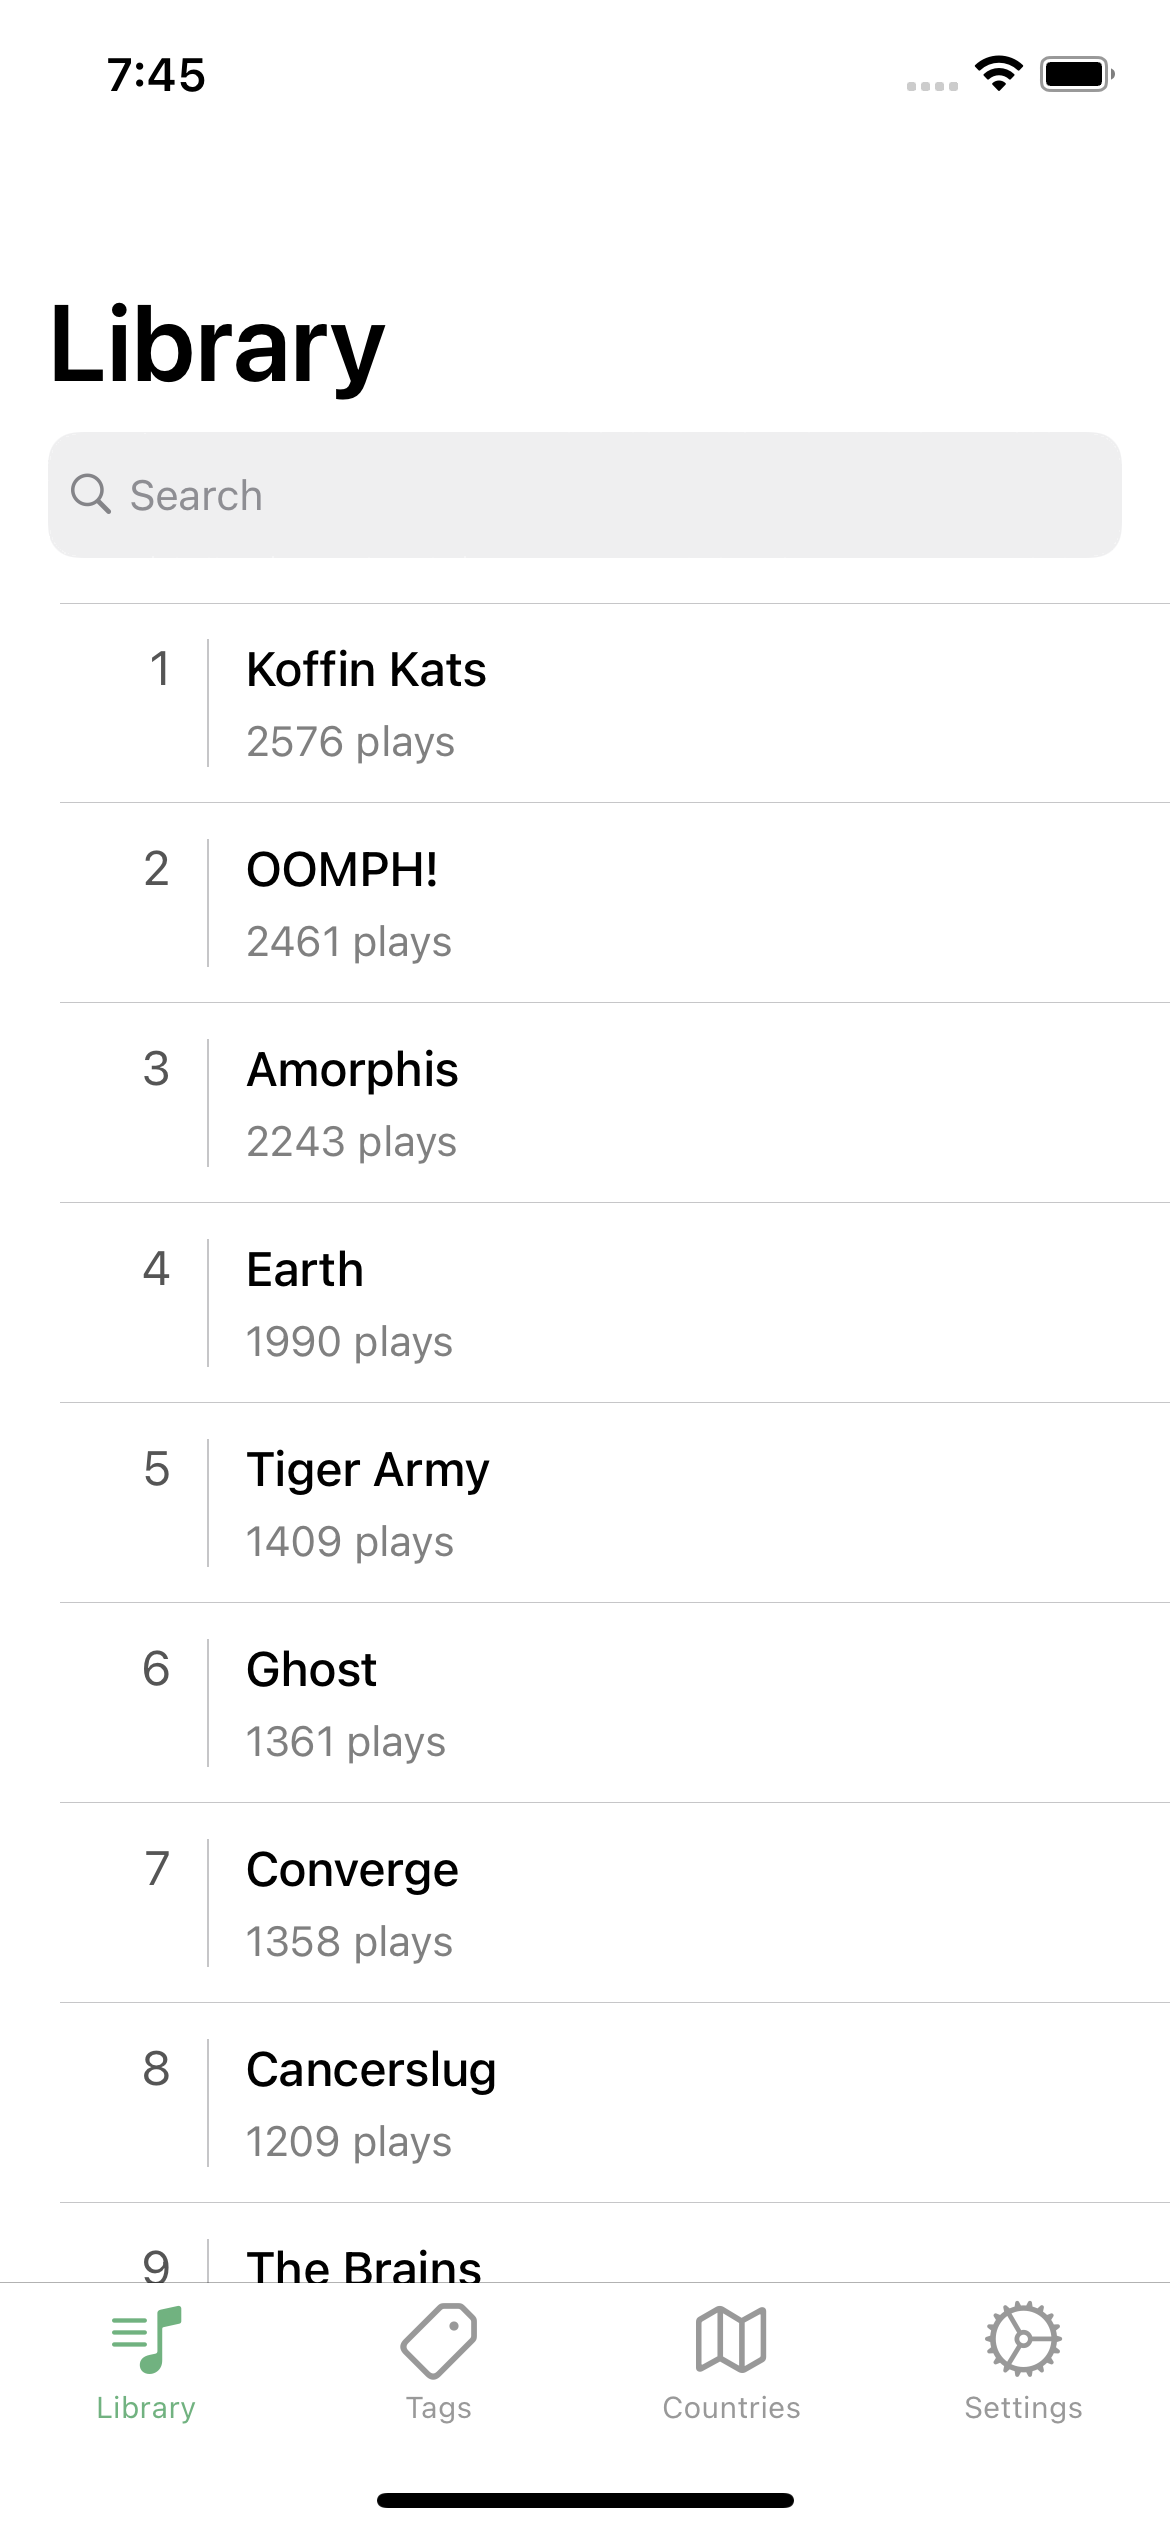
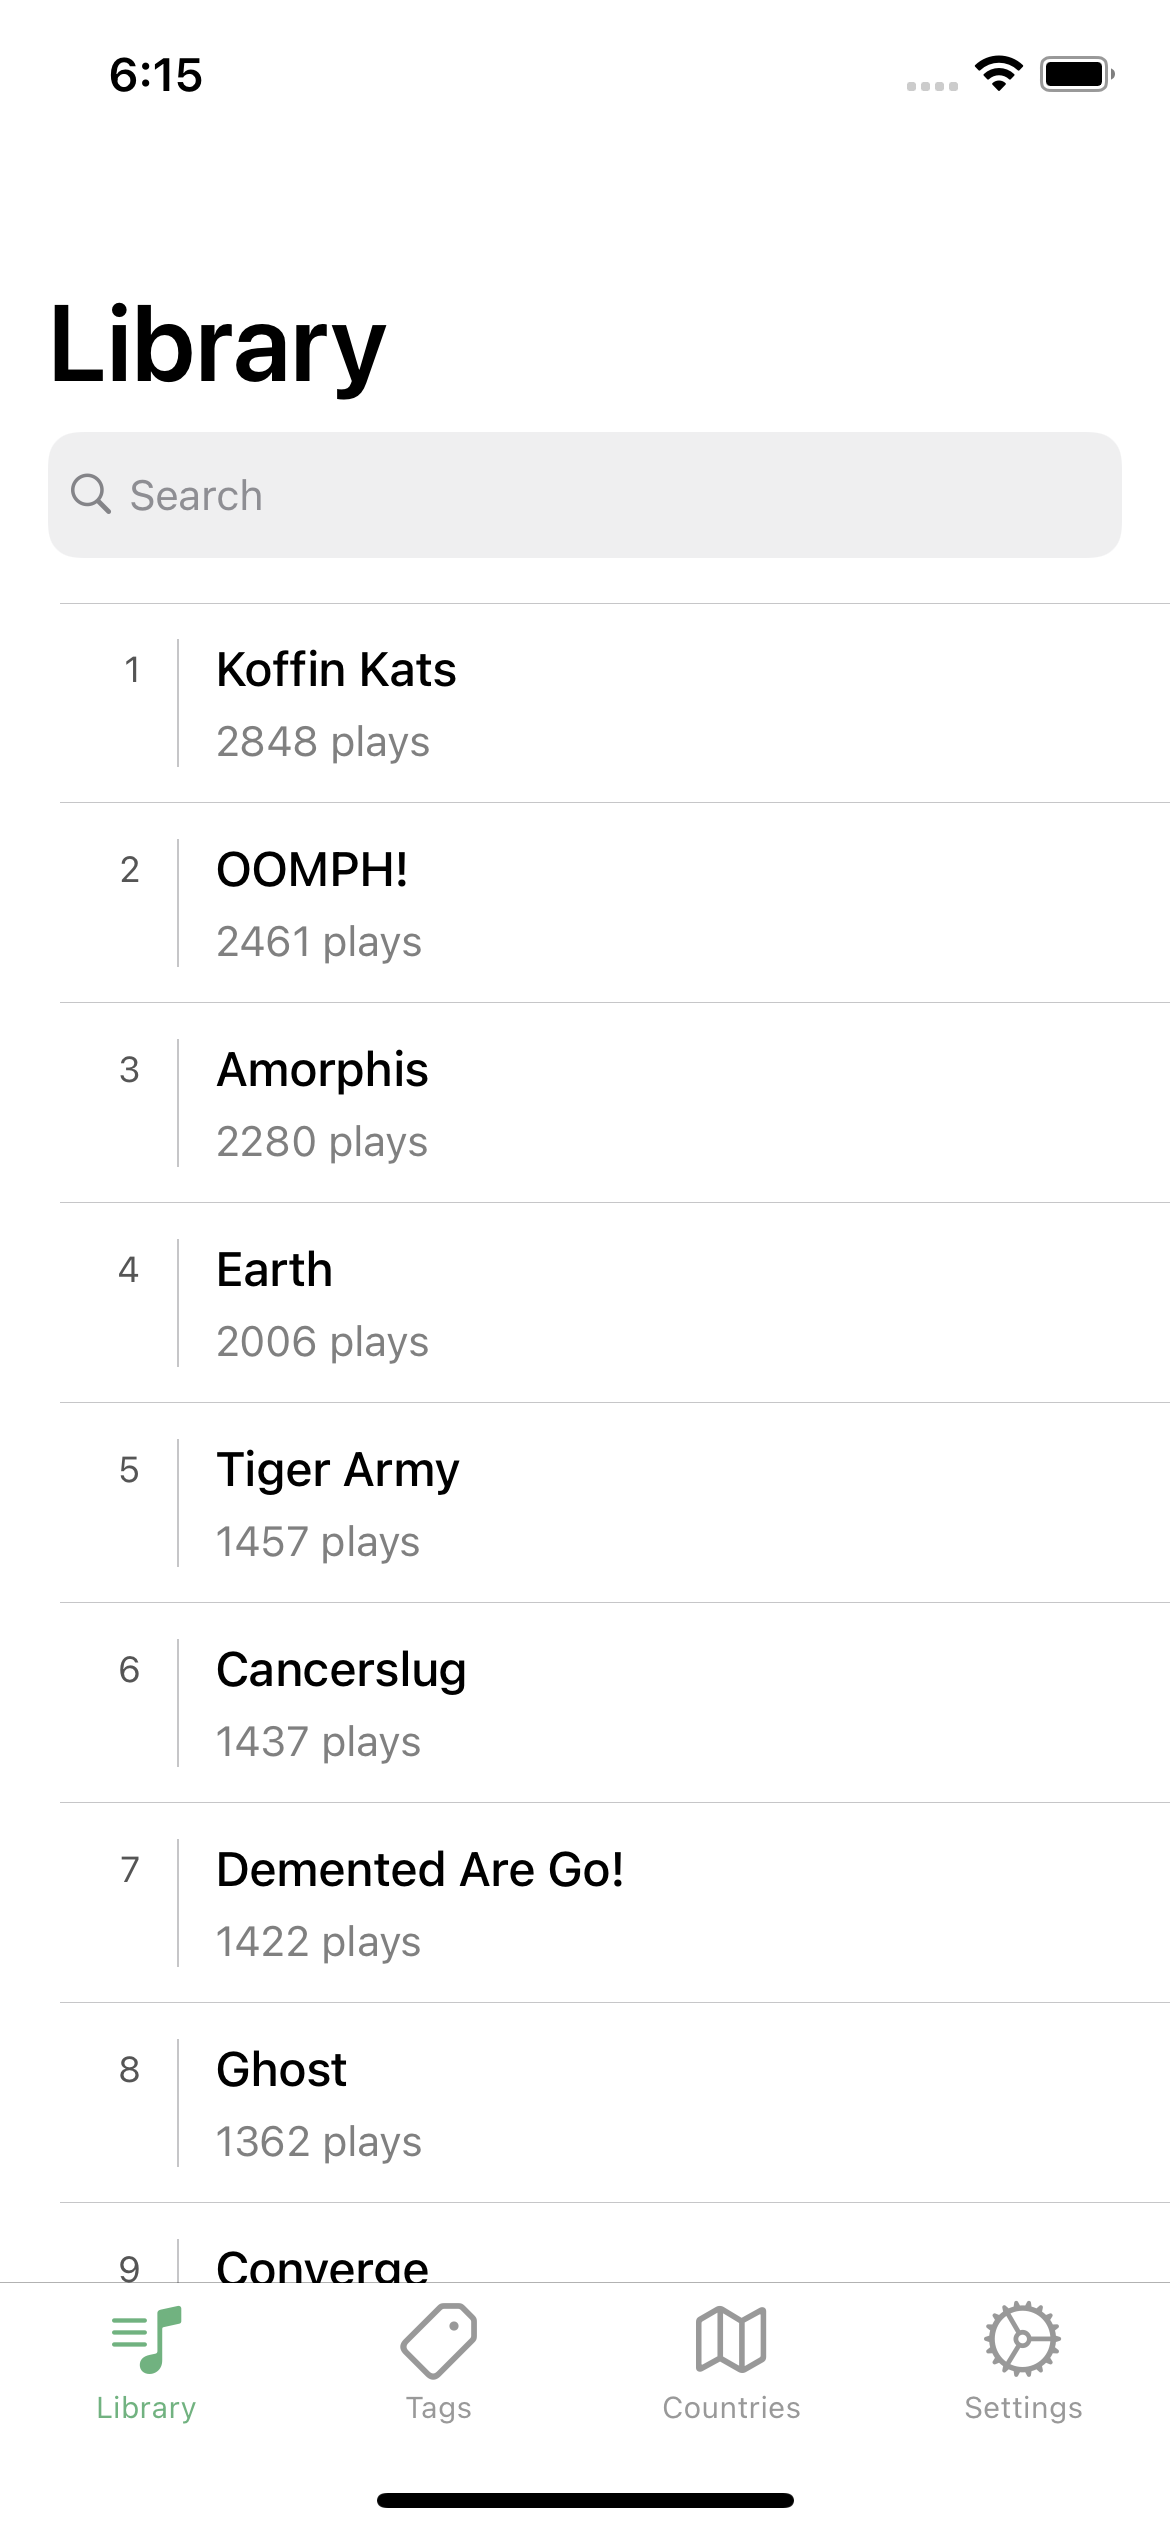
Make index labels smaller

diff --git a/Sources/Modules/Library/ArtistList/View/ArtistCell.swift b/Sources/Modules/Library/ArtistList/View/ArtistCell.swift
@@ -62,19 +62,30 @@ final class ArtistCell: UITableViewCell {
 
     private func addIndexLabel() {
         let wrapperStackView = UIStackView()
-        outerStackView.addArrangedSubview(wrapperStackView)
-
         wrapperStackView.alignment = .top
-        wrapperStackView.addArrangedSubview(indexLabel)
+        wrapperStackView.axis = .vertical
 
-        indexLabel.snp.makeConstraints { make in
-            make.width.equalTo(45)
+        outerStackView.addArrangedSubview(wrapperStackView)
+        wrapperStackView.snp.makeConstraints { make in
+            make.width.equalTo(35)
         }
 
+        let spacerView = UIView()
+        wrapperStackView.addArrangedSubview(spacerView)
+        spacerView.snp.makeConstraints { make in
+            make.height.equalTo(3)
+        }
+
+        wrapperStackView.addArrangedSubview(indexLabel)
+        indexLabel.snp.makeConstraints { make in
+            make.width.equalToSuperview()
+        }
         indexLabel.textAlignment = .right
-        indexLabel.font = .primaryContent
+        indexLabel.font = .subtitle
         indexLabel.textColor = .darkGray
         indexLabel.adjustsFontSizeToFitWidth = true
+
+        wrapperStackView.addArrangedSubview(UIView())
     }
 
     private func addVerticalSeparatorView() {

diff --git a/Sources/Modules/Artist/View/Cells/SimilarArtistCell.swift b/Sources/Modules/Artist/View/Cells/SimilarArtistCell.swift
@@ -61,19 +61,30 @@ final class SimilarArtistCell: UITableViewCell {
 
     private func addIndexLabel() {
         let wrapperStackView = UIStackView()
-        outerStackView.addArrangedSubview(wrapperStackView)
-
         wrapperStackView.alignment = .top
-        wrapperStackView.distribution = .fill
+        wrapperStackView.axis = .vertical
+
+        outerStackView.addArrangedSubview(wrapperStackView)
+        wrapperStackView.snp.makeConstraints { make in
+            make.width.equalTo(35)
+        }
+
+        let spacerView = UIView()
+        wrapperStackView.addArrangedSubview(spacerView)
+        spacerView.snp.makeConstraints { make in
+            make.height.equalTo(3)
+        }
 
         wrapperStackView.addArrangedSubview(indexLabel)
         indexLabel.snp.makeConstraints { make in
-            make.width.equalTo(60)
+            make.width.equalToSuperview()
         }
-
         indexLabel.textAlignment = .right
-        indexLabel.font = .primaryContent
+        indexLabel.font = .subtitle
         indexLabel.textColor = .darkGray
+        indexLabel.adjustsFontSizeToFitWidth = true
+
+        wrapperStackView.addArrangedSubview(UIView())
     }
 
     private func addVerticalSeparatorView() {

diff --git a/Sources/Coordinators/TagsCoordinator.swift b/Sources/Coordinators/TagsCoordinator.swift
@@ -30,6 +30,7 @@ final class TagsCoordinator: NavigationFlowCoordinator {
         let searchController = UISearchController(searchResultsController: nil)
         let viewController = TagsViewController(searchController: searchController, viewModel: viewModel)
         viewController.title = "Tags".unlocalized
+        viewController.navigationItem.backButtonDisplayMode = .minimal
         viewController.navigationItem.searchController = searchController
         viewController.navigationItem.hidesSearchBarWhenScrolling = false
         navigationController.pushViewController(viewController, animated: false)
